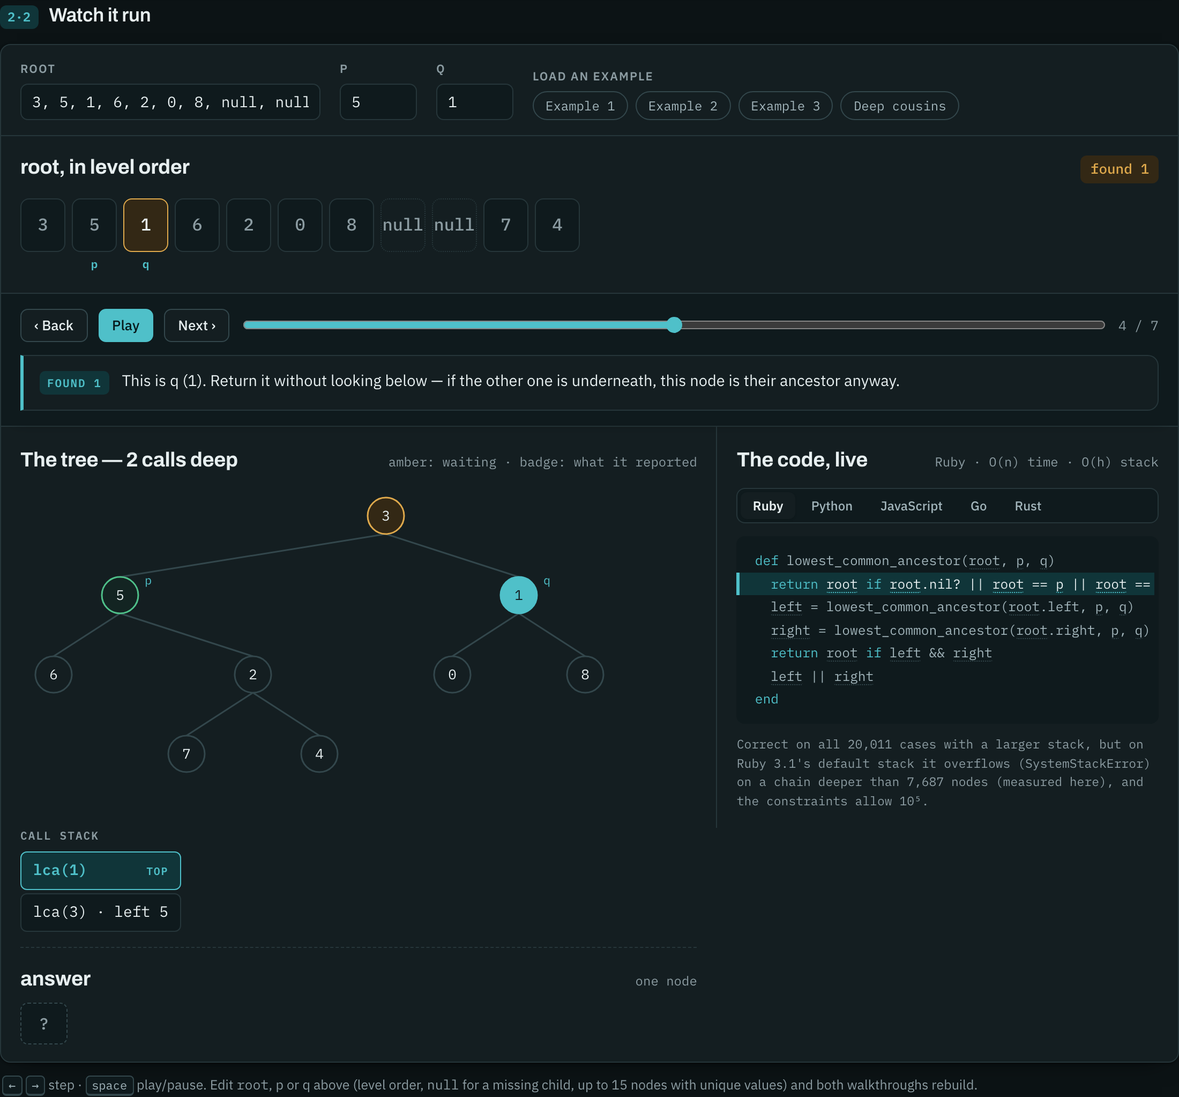
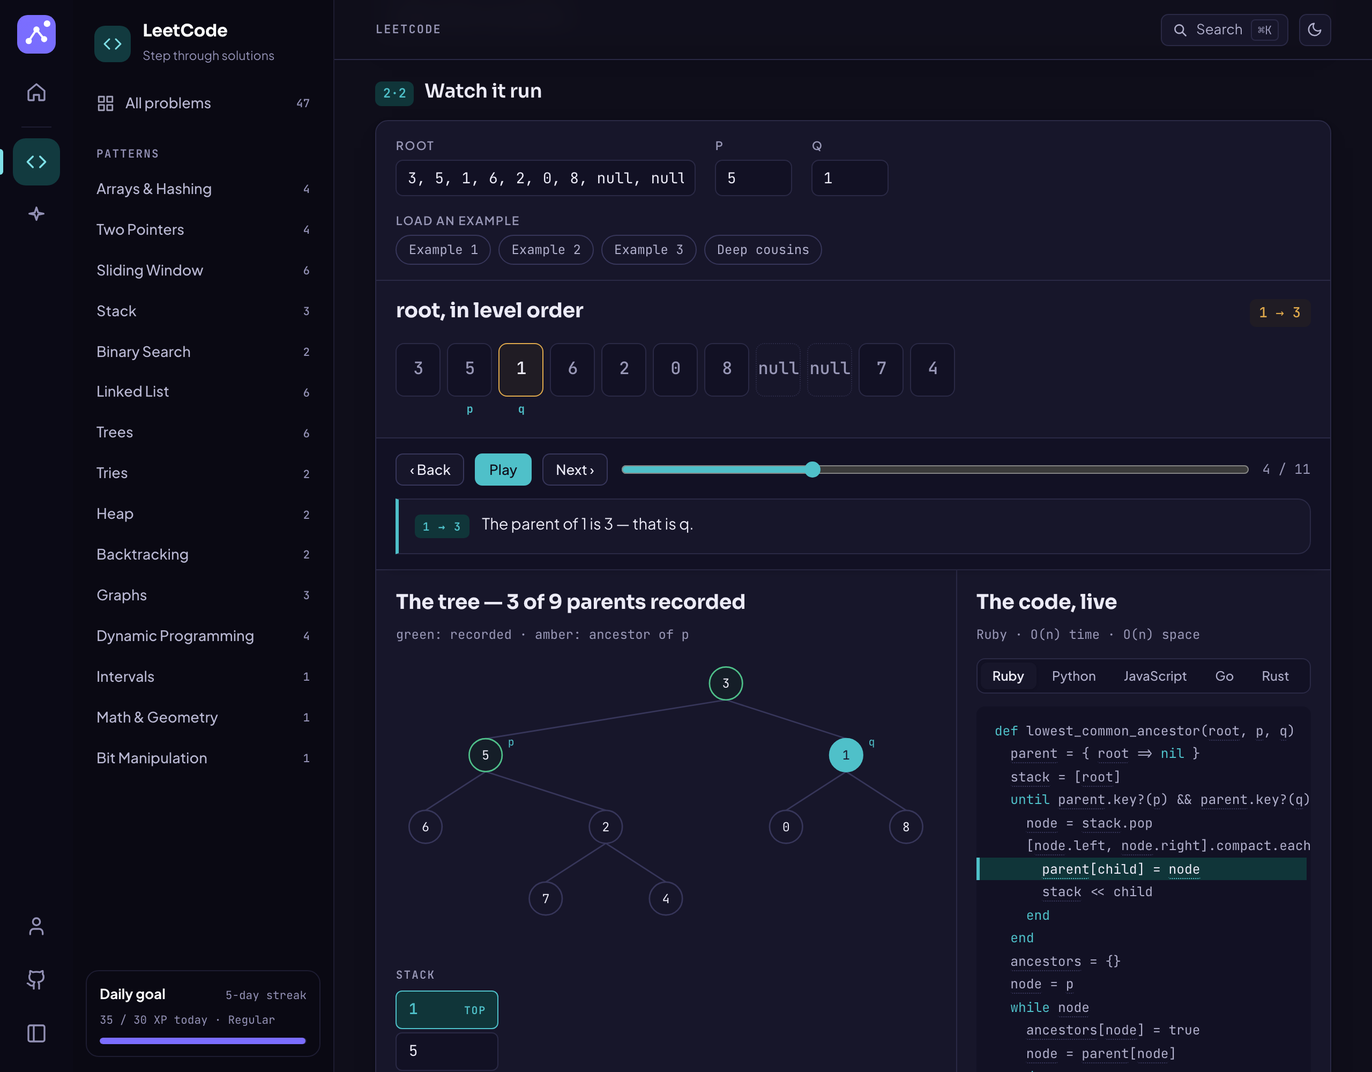
Rename the repo to learn; docs and screenshots for both sections
The repo is now github.com/devmtnaing/learn (GitHub redirects the old
leetcode-solutions URL).

- README: the site and its two sections, what each offers, how to run it,
  and a repo map. New screenshots in the current design: the hub, the
  problem list, a walkthrough, a question, Burmese, the AI path and a quiz.
- scripts/screenshots.mjs (npm run screenshots) retakes them from a build,
  in the dark theme at 2x, with sample progress.
- CONTRIBUTING: an intro to both sections, and a section on changing the
  AI Engineer course (markdown shape, estimates, quizzes, new sections).
- Repo URL in site.ts, package name, issue and PR templates. The Worker
  keeps its name so the custom domain is untouched.
- Track 1 is sky blue, so teal means LeetCode only; AI cards on the hub
  use the section's indigo. Answered quiz options stay readable.

npm run check and npm run audit pass.

diff --git a/src/styles/ai.css b/src/styles/ai.css
@@ -20,6 +20,7 @@
 }
 .tc-slate{--c:#5F6B85;--ce:#46506A;--cs:#E9ECF3;--ct:#3D465C}
 .tc-teal{--c:#0B7077;--ce:#08545A;--cs:#DCF1F0;--ct:#08545A}
+.tc-sky{--c:#0369A1;--ce:#075985;--cs:#E0F2FE;--ct:#075985}
 .tc-indigo{--c:#5141E0;--ce:#3A2DB8;--cs:#ECEBFF;--ct:#3A2DB8}
 .tc-rose{--c:#C2346A;--ce:#962550;--cs:#FDE8EF;--ct:#962550}
 .tc-amber{--c:#B4650A;--ce:#8A4C06;--cs:#FDF0DC;--ct:#7F4605}
@@ -27,6 +28,7 @@
   :root:not([data-theme="light"]){--xp:#F5B03C;--streak:#F2784F;--ok-edge:#2E8F62;--bad-edge:#B0533F}
   :root:not([data-theme="light"]) .tc-slate{--c:#8792AE;--ce:#5F6B85;--cs:#232838;--ct:#B5BDD2}
   :root:not([data-theme="light"]) .tc-teal{--c:#4FC0C9;--ce:#2A8F97;--cs:#103539;--ct:#6FD3DA}
+  :root:not([data-theme="light"]) .tc-sky{--c:#5CC3F2;--ce:#2B8FC0;--cs:#0C2D3F;--ct:#7FD3F7}
   :root:not([data-theme="light"]) .tc-indigo{--c:#A39AFF;--ce:#6E61E6;--cs:#25204F;--ct:#BDB6FF}
   :root:not([data-theme="light"]) .tc-rose{--c:#F27AA3;--ce:#C2346A;--cs:#3A1726;--ct:#F7A6C2}
   :root:not([data-theme="light"]) .tc-amber{--c:#F0A93E;--ce:#B4650A;--cs:#3A2A10;--ct:#F7C46E}
@@ -34,6 +36,7 @@
 :root[data-theme="dark"]{--xp:#F5B03C;--streak:#F2784F;--ok-edge:#2E8F62;--bad-edge:#B0533F}
 :root[data-theme="dark"] .tc-slate{--c:#8792AE;--ce:#5F6B85;--cs:#232838;--ct:#B5BDD2}
 :root[data-theme="dark"] .tc-teal{--c:#4FC0C9;--ce:#2A8F97;--cs:#103539;--ct:#6FD3DA}
+:root[data-theme="dark"] .tc-sky{--c:#5CC3F2;--ce:#2B8FC0;--cs:#0C2D3F;--ct:#7FD3F7}
 :root[data-theme="dark"] .tc-indigo{--c:#A39AFF;--ce:#6E61E6;--cs:#25204F;--ct:#BDB6FF}
 :root[data-theme="dark"] .tc-rose{--c:#F27AA3;--ce:#C2346A;--cs:#3A1726;--ct:#F7A6C2}
 :root[data-theme="dark"] .tc-amber{--c:#F0A93E;--ce:#B4650A;--cs:#3A2A10;--ct:#F7C46E}
@@ -345,3 +348,7 @@ a.s{text-decoration:none;color:var(--ink)}
 .plan-title{font-family:var(--display);font-size:18px;margin-top:4px}
 .plan-main small{color:var(--muted);line-height:1.5}
 .linkish{background:none;border:0;padding:0;font:inherit;color:var(--accent);font-weight:600;cursor:pointer;text-decoration:underline}
+
+/* answered options stay readable; only the ones not picked step back a little */
+.option:disabled{color:var(--ink-2)}
+.option.right:disabled,.option.wrong:disabled{color:var(--ink)}

diff --git a/src/lib/ai/course.ts b/src/lib/ai/course.ts
@@ -50,7 +50,7 @@ const block = (md: string) =>
 
 const TRACKS = [
   { id: 'setup', slug: 'setup', file: '00-setup/README.md', title: 'Setup', short: 'Setup', subtitle: 'Tools, GPUs and notes. Week 0.', color: 'slate', heading: /^## (?!Checkpoint)(\d+)\. (.+)$/ },
-  { id: 't1', slug: 'track-1', file: 'track-1-ai-application-engineer/README.md', title: 'AI Application Engineer', short: 'Track 1', subtitle: 'Use models well: APIs, RAG, agents, MCP, evals.', color: 'teal', heading: /^## (1\.\d+) (.+)$/ },
+  { id: 't1', slug: 'track-1', file: 'track-1-ai-application-engineer/README.md', title: 'AI Application Engineer', short: 'Track 1', subtitle: 'Use models well: APIs, RAG, agents, MCP, evals.', color: 'sky', heading: /^## (1\.\d+) (.+)$/ },
   { id: 't2', slug: 'track-2', file: 'track-2-ml-systems-engineer/README.md', title: 'ML / AI Systems Engineer', short: 'Track 2', subtitle: 'Train, tune, optimise and serve models.', color: 'indigo', heading: /^### (2\.\d+) (.+)$/ },
   { id: 't3', slug: 'track-3', file: 'track-3-research-engineer/README.md', title: 'AI Research Engineer', short: 'Track 3', subtitle: 'Understand and improve models.', color: 'rose', heading: /^### (3\.\d+) (.+)$/ },
   { id: 'math', slug: 'math', file: 'math/README.md', title: 'Math Track', short: 'Math', subtitle: 'Runs alongside all three tracks.', color: 'amber', heading: /^## Level (\d): (.+)$/ },

diff --git a/src/components/ai/Rail.tsx b/src/components/ai/Rail.tsx
@@ -103,7 +103,7 @@ export default function Rail({ units, mode = 'ai' }: { units: UnitRef[]; mode?: 
               <i style={{ background: SECTION_COLOR.ai }} />
               <b>AI Engineer</b>
               <small>
-                {totalXp(p, 'ai')} XP · {streak(p, 'ai')}-day streak · {crownCount(p)} crowns
+                {totalXp(p, 'ai')} XP · {streak(p, 'ai')}-day streak · {crownCount(p)} {crownCount(p) === 1 ? 'crown' : 'crowns'}
               </small>
             </a>
           </div>

diff --git a/src/components/ai/JumpBackIn.tsx b/src/components/ai/JumpBackIn.tsx
@@ -26,7 +26,7 @@ export default function JumpBackIn({ units }: { units: UnitRef[] }) {
   if (next)
     cards.push({
       key: 'ai',
-      color: next.color,
+      color: 'indigo',
       kicker: 'AI Engineer · up next',
       title: next.moduleTitle,
       sub: `${next.trackShort} · ${next.moduleLabel} · ${next.label}`,

diff --git a/src/data/site.ts b/src/data/site.ts
@@ -2,4 +2,4 @@
 export const SITE_NAME = 'learn';
 
 /** Where the source lives: it is public, and issues are open to anyone. */
-export const REPO = 'https://github.com/devmtnaing/leetcode-solutions';
+export const REPO = 'https://github.com/devmtnaing/learn';

diff --git a/README.md b/README.md
@@ -1,18 +1,20 @@
-# LeetCode solution pages
+# learn
 
-**Live: [learn.devmtnaing.com](https://learn.devmtnaing.com).** Two sections share one site, one design and one progress record:
+**Live: [learn.devmtnaing.com](https://learn.devmtnaing.com).** A learning site with two sections that share one design and one progress record:
 
-- **[LeetCode](https://learn.devmtnaing.com/leetcode)**: open any problem and step through its solution.
-- **[AI Engineer](https://learn.devmtnaing.com/ai-engineer)**: a self-study path from backend engineer to AI research engineer, built from the markdown course in [`course/`](course/README.md), with quizzes, flashcards, XP and streaks.
+- **[LeetCode](https://learn.devmtnaing.com/leetcode)**: interview problems you can step through one state change at a time, with tested code in five languages.
+- **[AI Engineer](https://learn.devmtnaing.com/ai-engineer)**: a self-study path from backend engineer to AI research engineer, in three tracks, with quizzes, flashcards and portfolio projects.
 
-[![Lowest Common Ancestor, step 4 of 7: the tree with the call stack beside it and the Ruby line that is running highlighted](docs/screenshots/walkthrough.png)](https://learn.devmtnaing.com/leetcode/lowest-common-ancestor-of-a-binary-tree)
+[![The hub: jump back into the last LeetCode problem and the next AI Engineer step, a card for each section, and the week's XP by section](docs/screenshots/home.png)](https://learn.devmtnaing.com)
 
-Interactive solutions to interview problems. Each page quotes the problem,
-steps through the algorithm one state change at a time, and ends with complete
-solutions in Ruby, Python, JavaScript, Go and Rust. Every one of those
-solutions was run against thousands of cases before it was published.
+A section rail on the left switches between the sections; each section has its own menu. Progress, XP and streaks are kept per section and add up on the hub. ⌘K searches the section you are in. Light and dark themes; the LeetCode pages are also in မြန်မာ (Burmese). All screenshots here are in the dark theme.
 
-Every page follows the same three parts:
+## LeetCode
+
+Each page quotes the problem, steps through the algorithm one state change at a
+time, and ends with complete solutions in Ruby, Python, JavaScript, Go and
+Rust. Every one of those solutions was run against thousands of cases before it
+was published. Every page has the same three parts:
 
 1. **The question.** LeetCode's statement, quoted word for word, the worked
    examples, a small widget for the idea the statement hinges on, and the
@@ -24,22 +26,47 @@ Every page follows the same three parts:
 3. **The whole solution.** Paste-ready code for every approach and language,
    each with a badge saying exactly how it was checked.
 
-The pages are bilingual, English and မြန်မာ (Burmese), in a light and a dark
-theme. The screenshots below are all in the dark one.
+[![Lowest Common Ancestor, step 4 of 11: the tree with parents recorded, the stack, and the Ruby line that is running highlighted](docs/screenshots/walkthrough.png)](https://learn.devmtnaing.com/leetcode/lowest-common-ancestor-of-a-binary-tree?step=4)
 
-## Screenshots
+The list has 45 interview problems, 15 each of easy, medium and hard, chosen
+where three of LeetCode's own study plans agree ([how](docs/problem-list.md)),
+plus 2 from outside that list, grouped by pattern. Every one has a solution
+page. "Mark as solved" on a page ticks it on the list and earns LeetCode XP.
+
+[![The problem list: patterns in the section menu, a difficulty filter, solved problems ticked](docs/screenshots/problems.png)](https://learn.devmtnaing.com/leetcode)
 
 **The question.** The statement next to a widget for the one idea it turns on.
 
 [![The top of the Two Sum page: the statement on the left, a target slider on the right](docs/screenshots/question.png)](https://learn.devmtnaing.com/leetcode/two-sum)
 
-**The problem list.** 47 problems grouped by pattern, with search, a difficulty filter and ⌘K from any page.
-
-[![The home page: patterns down the side, problems with difficulty and acceptance rate](docs/screenshots/home.png)](https://learn.devmtnaing.com/leetcode)
-
 **In Burmese.** Trapping Rain Water with two pointers, finished.
 
-[![Trapping Rain Water with Burmese chrome and narration, the answer of 6 units filled in](docs/screenshots/burmese.png)](https://learn.devmtnaing.com/leetcode/trapping-rain-water?approach=pointers)
+[![Trapping Rain Water with Burmese narration, the answer of 6 units filled in](docs/screenshots/burmese.png)](https://learn.devmtnaing.com/leetcode/trapping-rain-water?approach=pointers)
+
+## AI Engineer
+
+A curriculum for a backend engineer moving into AI, in the order the jobs come:
+
+| Track | Goal | At the course's own pace (~13.5 h a week) |
+|---|---|---|
+| **1 · AI Application Engineer** | Use models well: APIs, RAG, agents, MCP, evals, agent frameworks, durable workflows | ~3.5–4 months |
+| **2 · ML / AI Systems Engineer** | Neural nets from scratch, transformers, fine-tuning, GPUs, inference, distributed training, Kubernetes | ~7–9 months |
+| **3 · AI Research Engineer** | Learning theory, scaling, RL and post-training, interpretability, reproducing papers | ~8–12 months, then ongoing |
+| **Math** | Three levels, each paired with a track | alongside |
+
+Every module has five steps: **concepts**, the **resources** to work through,
+hands-on **builds**, a **quiz** (with hearts and retries), and a **checkpoint**
+that earns a crown. You choose a study pace in hours a week, and every time
+estimate scales to it. Flashcards come back on a spaced schedule; the reading
+list has 57 papers in order; the projects are portfolio capstones with full
+specs.
+
+[![The Track 1 path: modules on a timeline, each with its five steps, the first one crowned](docs/screenshots/ai-path.png)](https://learn.devmtnaing.com/ai-engineer/track-1)
+
+[![A quiz question on retrieval, answered correctly, with the explanation](docs/screenshots/ai-quiz.png)](https://learn.devmtnaing.com/ai-engineer/track-1/1-4/quiz)
+
+The course itself is markdown in [`course/`](course/README.md), readable on its
+own. The pages are built from it, so editing a track's README updates the site.
 
 ## Run it
 
@@ -47,48 +74,43 @@ theme. The screenshots below are all in the dark one.
 npm install
 npm run dev        # http://localhost:4321
 npm run build      # static site in dist/
-npm run check      # structural check of every lesson
-npm run audit      # every built page in a real browser (after npm run build)
+npm run check      # structural check of every LeetCode lesson
+npm run audit      # every lesson, the hub and the AI pages in a real browser (after build)
+npm run verify -- <slug>   # rerun a lesson's listings in five languages
+npm run screenshots        # retake docs/screenshots (after build)
 npm run refresh-problems   # re-read titles, tags and acceptance rates from LeetCode
 ```
 
-The problem list has 45 interview problems, 15 each of easy, medium and hard,
-chosen where three of LeetCode's own study plans agree
-([how](docs/problem-list.md)), plus 2 from outside that list, grouped by
-pattern (Arrays & Hashing, Two Pointers, Trees, …). Every one of them has a
-solution page. To add a problem or fix a page, see
-[CONTRIBUTING.md](CONTRIBUTING.md).
+To add a LeetCode page or change the course, see [CONTRIBUTING.md](CONTRIBUTING.md).
 
 ## What is in the repo
 
 ```
-src/pages/index.astro           the hub: both sections
-src/pages/leetcode/index.astro  the problem list
-src/pages/leetcode/[slug].astro renders every lesson folder
-src/lessons/<slug>/             one folder per solution page
-src/pages/ai-engineer/          the AI Engineer path, module guides and lesson steps
-src/pages/profile.astro         progress across both sections
-course/                         the AI Engineer course as markdown (the pages read it at build)
-src/lib/ai/                     course parser, quizzes, flashcards, progress painter
-src/components/ai/              Preact islands: lesson steps, practice, profile, rail
-src/lib/progress.ts             progress, XP and streak for the whole site (localStorage)
-src/lib/                        the shared kit: stepper, stage shapes, trees, i18n
-src/styles/                     tokens (one design, a teal and an indigo accent), app shell, lessons, AI section
-scripts/check-lessons.mjs       structure and format check
-scripts/audit.mjs               drives every built page in Chromium
-scripts/refresh-problems.mjs    refreshes src/data/problems.json from LeetCode
-scripts/verify/                 runs every listing in five languages
-verify/<slug>/                  each lesson's test corpus and drivers
-docs/                           how the problem list was chosen; translation notes; screenshots
-wrangler.jsonc                  Cloudflare: serve dist/ at learn.devmtnaing.com
+src/pages/index.astro             the hub
+src/pages/profile.astro           progress, the study plan, export and import
+src/pages/leetcode/               the problem list and [slug].astro, which renders every lesson
+src/lessons/<slug>/               one folder per LeetCode solution page
+src/pages/ai-engineer/            AI Engineer overview, tracks, module guides, lesson steps, practice
+course/                           the AI Engineer course as markdown (the pages read it at build)
+src/lib/ai/                       course parser, quizzes, flashcards, the progress painter
+src/components/ai/                Preact islands: lesson steps, practice, profile, progress rail
+src/components/                   the shell: section rail, section menu, search, theme
+src/data/sections.ts              the sections and each one's menu
+src/lib/progress.ts               progress for the whole site: XP per section, streaks, pace
+src/lib/                          the LeetCode kit: stepper, stage shapes, trees, i18n
+src/styles/                       tokens (one design, a teal and an indigo accent), shell, lessons, AI
+scripts/                          lesson check, browser audit, verify, screenshots, problem refresh
+verify/<slug>/                    each lesson's test corpus and drivers
+docs/                             how the problem list was chosen, translation notes, screenshots
+wrangler.jsonc                    Cloudflare: serve dist/ at learn.devmtnaing.com
 ```
 
-The site is fully static: every page is prerendered and served as a file (the
-AI Engineer's interactive steps are small Preact islands on those pages), so
-there's no backend. A solution page is a folder of data and one step generator
-per approach. The kit supplies the transport, code panel, language switching
-and layout. Every lesson has a spec in `verify/`, so `npm run verify --
-<slug>` reruns exactly what its badges claim.
+The site is fully static: every page is prerendered and served as a file, and
+the interactive parts of the AI Engineer section are small Preact islands on
+those pages. Progress lives in the browser (`localStorage`); export it from the
+profile to move it. A LeetCode page is a folder of data and one step generator
+per approach, and the kit supplies the rest. Every lesson has a spec in
+`verify/`, so `npm run verify -- <slug>` reruns exactly what its badges claim.
 
 ## License
 

diff --git a/CONTRIBUTING.md b/CONTRIBUTING.md
@@ -1,4 +1,13 @@
-# Contributing a solution page
+# Contributing
+
+This repo is the site at [learn.devmtnaing.com](https://learn.devmtnaing.com),
+with two sections. Most of this guide is about the first:
+
+- **LeetCode solution pages** (`src/lessons/`): the rest of this guide.
+- **The AI Engineer course** (`course/` and `src/pages/ai-engineer/`): see
+  [Changing the AI Engineer course](#changing-the-ai-engineer-course) at the end.
+
+## Contributing a solution page
 
 The most useful contribution is a new solution page for a problem on the list
 that doesn't have one yet: any row on the problem list (`/leetcode`) marked *Solution coming
@@ -9,7 +18,7 @@ Before you start, open a page or two to see what one looks like:
 copy. Every page has the same parts in the same order — the layout comes from
 the shared kit, so you write content, not markup.
 
-## What a page promises
+### What a page promises
 
 A reader comes back to these pages to relearn a problem, watch it run, and copy
 code they can trust. So three rules are firm:
@@ -25,14 +34,14 @@ code they can trust. So three rules are firm:
   carries between steps, in the shape the code holds it: the map, the stack,
   the call stack. It isn't a cartoon of the idea.
 
-## You will need
+### You will need
 
 - Node 20+, Python 3.10+, Ruby 3
 - Docker, for Go and Rust. The verifier runs them in `golang:1.23-alpine` and
   `rust:1.98-slim`, and reports them as *skipped*, not passed, when Docker isn't
   running.
 
-## Building a page, step by step
+### Building a page, step by step
 
 A page is one folder, `src/lessons/<leetcode-slug>/`. The route finds it and
 the problem list links it automatically, so there is nothing else to register.
@@ -46,7 +55,7 @@ verify/<slug>/spec.py               the corpus, the oracle, the five drivers
 verify/<slug>/adapter.mjs           how the walkthrough reads a corpus line
 ```
 
-### 1. Get the problem exactly right
+#### 1. Get the problem exactly right
 
 Quote the statement, don't paraphrase it: readers will submit against the real
 one. LeetCode's GraphQL endpoint returns it without a key:
@@ -59,13 +68,13 @@ curl -s -X POST https://leetcode.com/graphql/ -H 'Content-Type: application/json
 `statement.html` holds the prose paragraphs only. Examples and constraints
 have their own components in `lesson.js` and `page.js`.
 
-### 2. Write the brute force first
+#### 2. Write the brute force first
 
 It is the reference everything else is checked against, so write it first and
 confirm it on the examples. Then write the better approach. Most pages show two
 (the brute force and the one worth learning); some show three.
 
-### 3. Write the listings as files, then generate the code table
+#### 3. Write the listings as files, then generate the code table
 
 Write each approach in each language as a plain file (`brute.rb`,
 `brute.py`, `brute.js`, `brute.go`, `brute.rs`, `hash.rb`, …) and mark each
@@ -85,7 +94,7 @@ and paste the `CODE` block into `lesson.js`. Don't retype listings: the
 verifier runs the text in `lesson.js`, and the generator strips the markers so
 that text is exactly the file you wrote.
 
-### 4. Write `lesson.js`
+#### 4. Write `lesson.js`
 
 Copy `src/lessons/two-sum/lesson.js` and replace its parts. It ends with one
 `mountLesson({...})` call. Keep that call last in the file, because it runs the
@@ -131,7 +140,7 @@ and calls get `cells(items, { wide: true })` and a board or matrix
 Give a failed comparison its own frame. The branch that *doesn't* fire is often
 the one worth seeing.
 
-### 5. Write `page.js`
+#### 5. Write `page.js`
 
 Every prop is required, and `npm run check` names any that are missing:
 `title`, `summary`, `eyebrow`, `lede`, `links`, `constraints`, `part1Sub`,
@@ -145,7 +154,7 @@ Traps are the places the statement trips people up: each one names what the
 wrong code returns, and you ran it to find out. Notes are questions a reader would ask
 ("Why check for the partner *before* storing?"), answered in a paragraph.
 
-### 6. Verify
+#### 6. Verify
 
 Write `verify/<slug>/spec.py`: `DRIVERS` (a program per language that reads
 one case per line and prints one answer per line, with `{SOL}` where the
@@ -174,7 +183,7 @@ Things that have bitten before:
 - Rust's `i32` overflows silently in release builds.
 - Go's `for range` over a map is randomly ordered.
 
-### 7. Check the page
+#### 7. Check the page
 
 ```sh
 npm run check        # structure: every key highlighted, every part present
@@ -192,7 +201,7 @@ finds and opens a page. What it cannot
 tell you is whether the page reads well — open it
 beside another one and look.
 
-## Burmese
+### Burmese
 
 Pages are bilingual, but **you don't need to write Burmese**. Any string can
 be plain English, or `t(english, burmese)` from `kit.js`. A missing Burmese side
@@ -203,7 +212,7 @@ If you do translate: keep code, identifiers, problem titles and terms of art
 translate idioms word for word. [docs/translation-review.md](docs/translation-review.md)
 collects phrasings a native reader should check. Help there is very welcome.
 
-## Pull request checklist
+### Pull request checklist
 
 - [ ] `npm run check` passes
 - [ ] `npm run verify -- <slug>` passes, with Go and Rust run (not skipped)
@@ -225,9 +234,39 @@ shared page code but neither the skill nor this guide, so a reviewer can ask
 whether the docs need to follow. A third job runs `npm run audit` over every
 page. Reading the page beside another one is still yours to do.
 
-## Using Claude Code
+### Using Claude Code
 
 The repo ships a project skill, `.claude/skills/leetcode-solution-page/`. In
 Claude Code, `/leetcode-solution-page <problem>` follows this guide end to end,
 verification included. It holds a contribution to the same standard as a
 hand-written one: the checklist above still applies.
+
+## Changing the AI Engineer course
+
+The course is plain markdown in [`course/`](course/README.md), and the pages
+under `/ai-engineer` are built from it at build time
+(`src/lib/ai/course.ts`), so a change to the markdown is a change to the site.
+
+- **Module text** lives in each track's README. A module is a heading
+  (`## 1.4 …` in Track 1, `### 2.7 …` in Tracks 2 and 3, `## Level 2: …` in
+  Math) with `**Why:**`, `**Concepts:**`, `**Learn**` (`- *Core:*` and
+  `- *Optional:*` items), `**Build**` (`- [ ]` items) and `**Checkpoint:**`.
+  Keep that shape: the parser turns each part into a step of the module.
+- **Time estimates** come from the weeks column of each track's module table.
+  They are weeks at ~13.5 hours a week; the site scales them to the reader's
+  chosen pace.
+- **Quizzes and flashcards** are in `src/lib/ai/quizzes.ts` and
+  `src/lib/ai/flashcards.ts`, keyed by module id (`t1-1.4`). A question names
+  its correct option and says why.
+- **Papers and projects** are `course/track-3-research-engineer/papers.md` and
+  `course/projects/README.md`.
+- **A new section** (another course next to LeetCode and AI Engineer) is one
+  entry in `src/data/sections.ts`, which gives it a rail icon and its own menu,
+  plus its pages.
+
+Checklist for a course change:
+
+- [ ] `npm run build` succeeds, and the module still shows all of its steps on its track page
+- [ ] `npm run audit` passes: it checks the hub and a sample of AI Engineer
+      pages for errors, overflow at 320 and 400px, and contrast in both themes
+- [ ] links you added open (resources are linked out, so check them)

diff --git a/.github/pull_request_template.md b/.github/pull_request_template.md
@@ -9,6 +9,7 @@
 - [ ] every badge says what was actually run; every trap output was produced by running it
 - [ ] `npm run build` succeeds, then `npm run audit -- <slug>` passes
 - [ ] opens on step 1, and reads well beside another page at the same width
+- [ ] **If this changes the AI Engineer course** (`course/`, `src/lib/ai/`, `src/pages/ai-engineer/`): `npm run build` and `npm run audit` pass, and new links open
 - [ ] **If this changes how every page is built** (`src/lib/`, `src/layouts/`, `lesson.css`, `kit.css`, `scripts/check-lessons.mjs`): I updated `.claude/skills/leetcode-solution-page/` (usually `references/lesson-kit.md`) and `CONTRIBUTING.md` to match, or this change doesn't affect how a page is made.
 
 See [CONTRIBUTING.md](../CONTRIBUTING.md) for what each item means.
